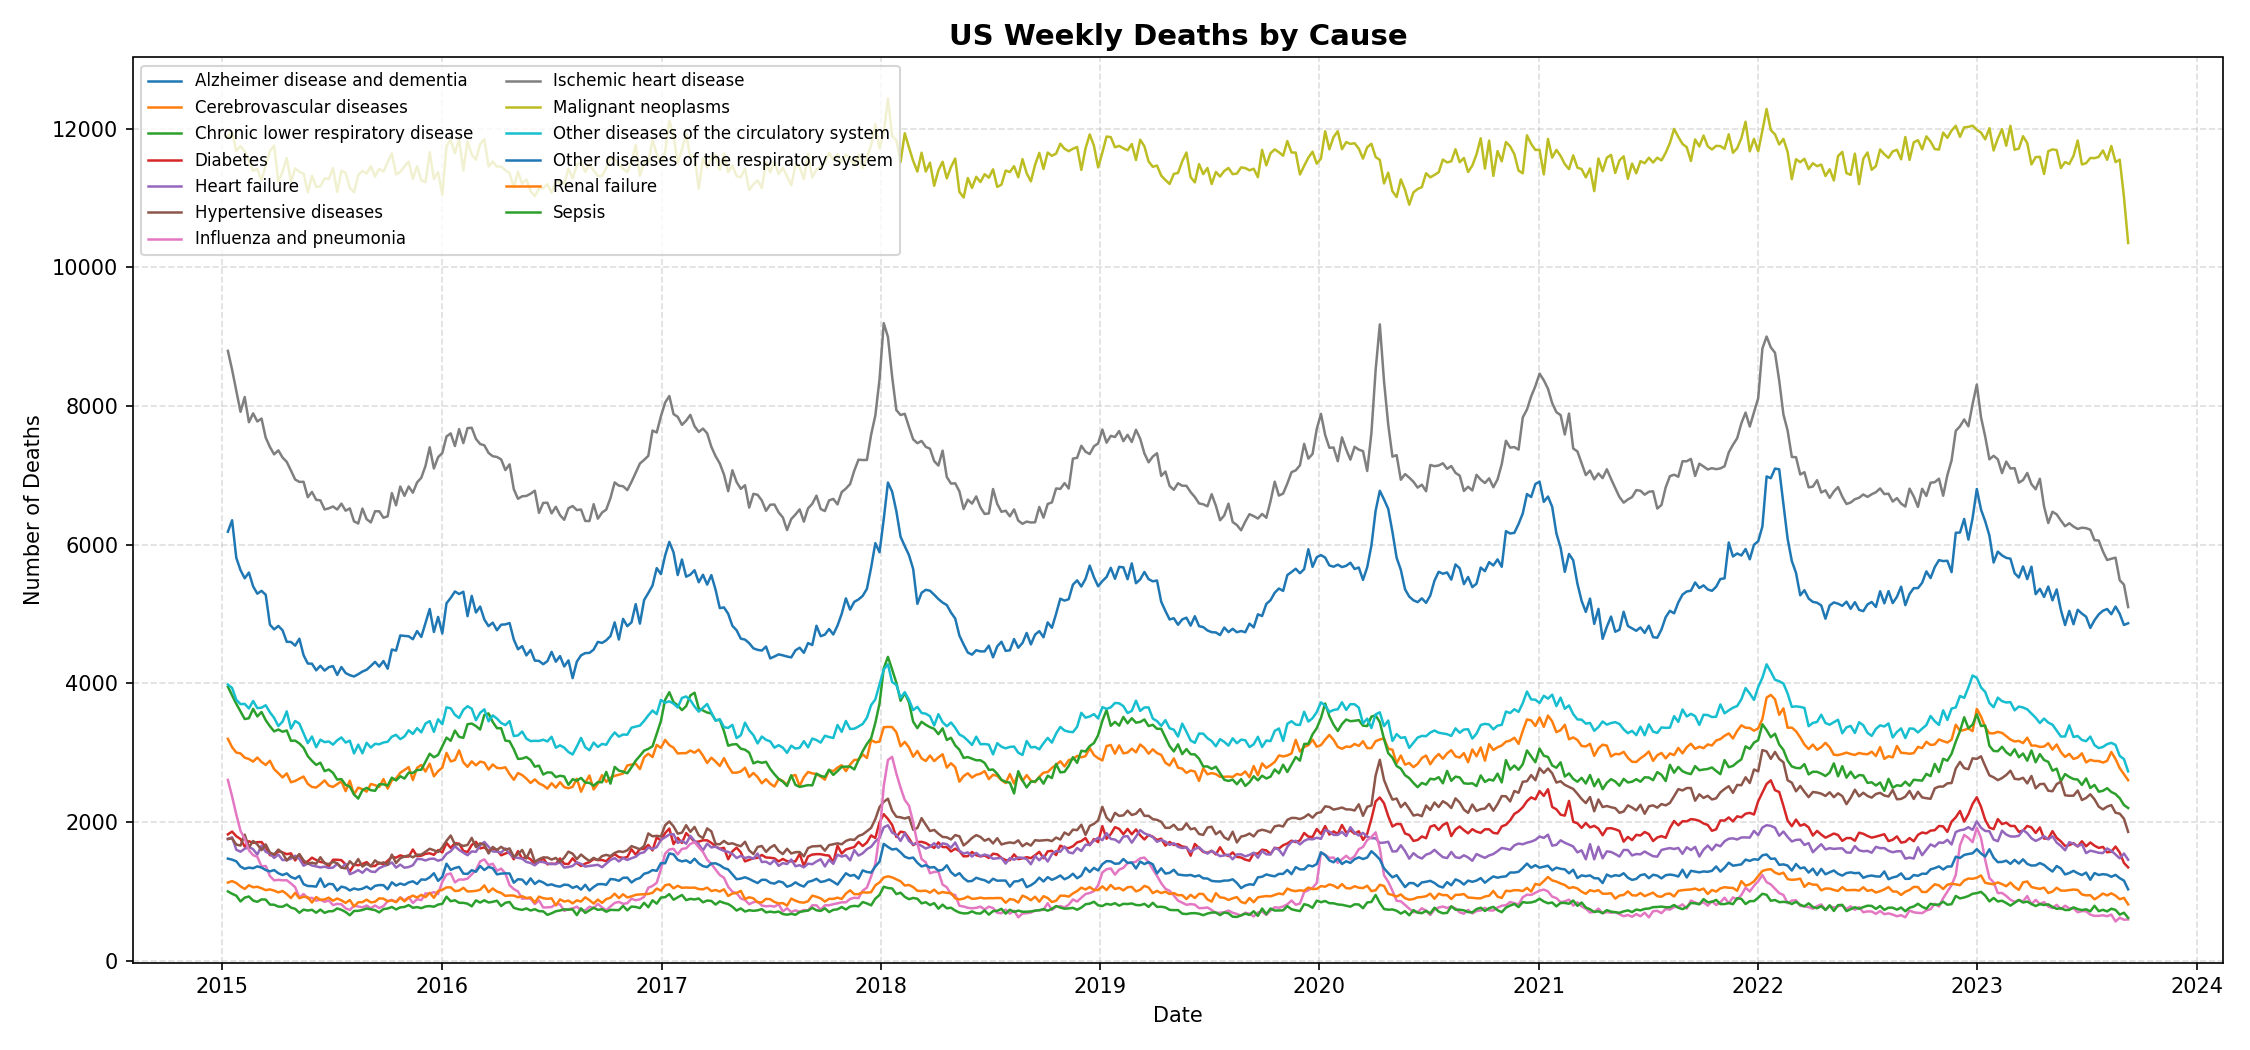
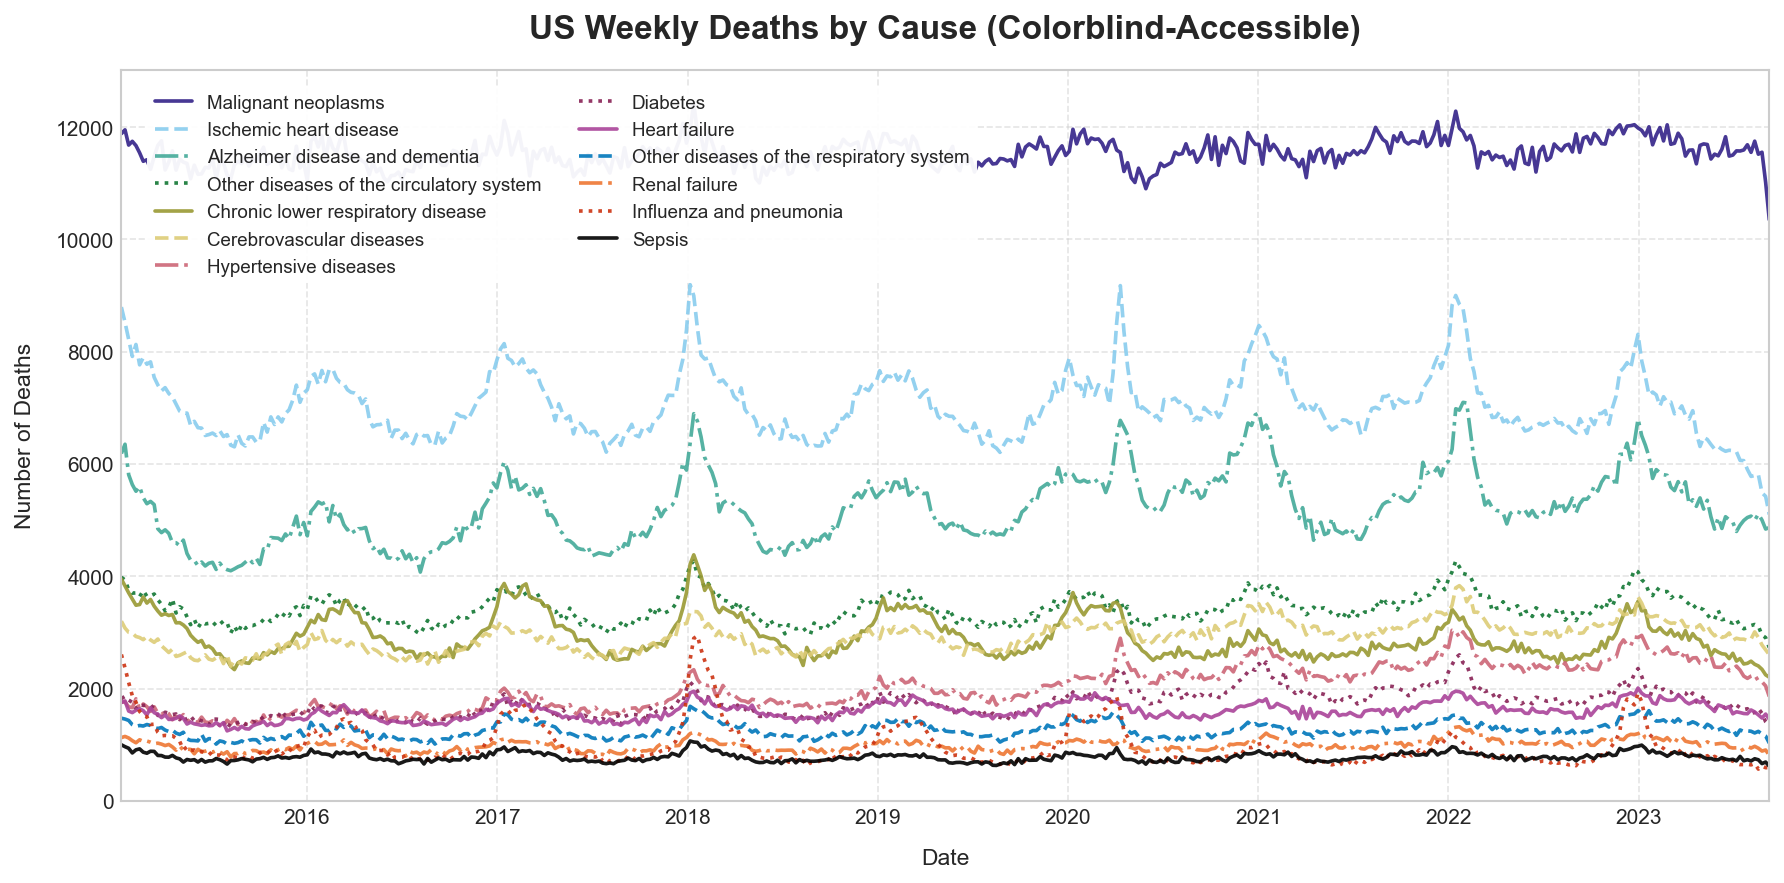
Updates to entry from Elliot

diff --git a/content/entries/deaths-per-week-us/weekly_deaths_by_cause_US/generate_plot_by_cause.py b/content/entries/deaths-per-week-us/weekly_deaths_by_cause_US/generate_plot_by_cause.py
@@ -1,0 +1,82 @@
+import pandas as pd
+import matplotlib.pyplot as plt
+import matplotlib.dates as mdates
+
+# 1. Load your dataset
+df = pd.read_csv("../weekly_deaths_united_states_only.csv")
+
+# Filter for US national data and the actual Unweighted counts
+df_filtered = df[(df['Jurisdiction'] == 'United States') & (df['Type'] == 'Unweighted')].copy()
+
+# Parse date strings into datetime objects
+df_filtered['Week Ending Date'] = pd.to_datetime(df_filtered['Week Ending Date'])
+
+# Pivot table to obtain a timeseries per Cause Subgroup
+df_pivot = df_filtered.pivot_table(
+    index='Week Ending Date', 
+    columns='Cause Subgroup', 
+    values='Number of Deaths',
+    aggfunc='sum'
+)
+
+# 2. Configure Paul Tol's colorblind-safe color cycle
+color_palette = [
+    "#332288", "#88CCEE", "#44AA99", "#117733", 
+    "#999933", "#DDCC77", "#CC6677", "#882255", 
+    "#AA4499", "#0077BB", "#EE7733", "#CC3311", "#000000"
+]
+
+# Alternate line styles to provide non-color cues
+line_styles = [
+    '-', '--', '-.', ':', 
+    '-', '--', '-.', ':', 
+    '-', '--', '-.', ':', '-'
+]
+
+# Set up clean canvas styling
+plt.style.use('seaborn-v0_8-whitegrid')
+fig, ax = plt.subplots(figsize=(12, 6), dpi=300)
+
+# Sort cause subgroups by historical mean to match the visual stack hierarchy
+sorted_columns = df_pivot.mean().sort_values(ascending=False).index
+
+# Plot each line with a dedicated color-style pair
+for i, col in enumerate(sorted_columns):
+    ax.plot(
+        df_pivot.index, 
+        df_pivot[col], 
+        label=col, 
+        color=color_palette[i % len(color_palette)], 
+        linestyle=line_styles[i % len(line_styles)],
+        linewidth=1.75,
+        alpha=0.9
+    )
+
+# 3. Labeling and Formatting
+ax.set_title("US Weekly Deaths by Cause (Colorblind-Accessible)", fontsize=16, fontweight='bold', pad=15)
+ax.set_xlabel("Date", fontsize=11, labelpad=10)
+ax.set_ylabel("Number of Deaths", fontsize=11, labelpad=10)
+
+ax.grid(True, linestyle='--', alpha=0.5)
+ax.set_xlim(df_pivot.index.min(), df_pivot.index.max())
+ax.set_ylim(bottom=0)
+
+# Clean Year Ticks on the X-axis
+ax.xaxis.set_major_locator(mdates.YearLocator())
+ax.xaxis.set_major_formatter(mdates.DateFormatter('%Y'))
+
+# Two-column accessible legend positioned in the upper left
+ax.legend(
+    loc='upper left', 
+    bbox_to_anchor=(0.01, 0.99), 
+    ncol=2, 
+    frameon=True, 
+    facecolor='white', 
+    framealpha=0.95, 
+    edgecolor='none', 
+    fontsize=9
+)
+
+plt.tight_layout()
+plt.savefig('weekly_deaths_by_cause_US.png', dpi=150, bbox_inches='tight')
+plt.close()  # Recommended to free up memory after saving

diff --git a/content/entries/deaths-per-week-us/index.md b/content/entries/deaths-per-week-us/index.md
@@ -11,8 +11,7 @@ tags: ["Cancer", "Heart disease"]
 
 The historical data of deaths per week of the year are sinusoidal for many causes of death. They vary by season with peaks in winter and troughs in summer. 
 <!--more-->
-For heart disease, the periodic variation apparently is a combination of stress, overeating/drinking, extra exertion (like shovelling snow) - all apparently equates to more heart attacks.
-
+For heart disease, the periodic variation is apparently a combination of stress, overeating/drinking, and extra exertion (like shoveling snow): all apparently lead to more heart attacks.
 
 These are heart-related weekly deaths in the US:
 {{< figure src="weekly_deaths_heart_US.png" width="700px" caption="Heart disease deaths per week in the US" >}}
@@ -27,7 +26,7 @@ Here are aggregate weekly deaths in the US, from all causes, which show a notice
 
 
 
-There is a periodic component and a mild growth trend which may be due to population growth. Thus, one could think about modelling these as purely periodic, or adding a linear or exponential term.
+There is a periodic component and a mild growth trend which may be due to population growth. Thus, modeling these could be purely periodic, or one could add a linear or exponential term.
 
 For example, a possible model for weekly heart-related deaths in the US is shown below
 
@@ -40,11 +39,11 @@ For a plot with other causes of death, see the [Scientific American Article](htt
 
 
 ## Cleaned up data
-The cause-specific data comes from *National Center for Health Statistics. Weekly Counts of Death by Jurisdiction and Select Causes of Death*, accessed on 26 Feb 2026, available from the CDC site https://data.cdc.gov/d/u6jv-9ijr. The aggregate all-cause weekly totals come from *National Center for Health Statistics. Excess Deaths Associated with COVID-19*, accessed on 16 Jun 2026, available from https://data.cdc.gov/d/xkkf-xrst.
+The cause-specific data comes from *National Center for Health Statistics. Weekly Counts of Death by Jurisdiction and Select Causes of Death*, accessed on February 26, 2026, available from the CDC site https://data.cdc.gov/d/u6jv-9ijr. The aggregate all-cause weekly totals come from *National Center for Health Statistics. Excess Deaths Associated with COVID-19*, accessed on June 16, 2026, available from https://data.cdc.gov/d/xkkf-xrst.
 
 *  [US data for weekly deaths (aggregate of all causes)](us_weekly_all_cause_deaths.csv). Filtered from the CDC "Excess Deaths Associated with COVID-19" dataset (see Sources). Weighted counts, which correct the most recent weeks for reporting delays and so drop the falling tail visible in the plots above. Raw counts are in the [unweighted version](us_weekly_all_cause_deaths_unweighted.csv).
 *  [US data for heart related or cancer deaths only](us_weekly_cancer_and_heart_data_only.csv). Built from the raw CDC data; weighted counts that correct the most recent weeks for reporting delays. It combines "Heart failure" and "Ischemic heart disease" into one group (Heart) and relabels "Malignant neoplasms" into "Cancer". The plots above use the [unweighted version](us_weekly_cancer_and_heart_data_only_unweighted.csv), so they won't match this file at the right edge.
-*  [US data only](weekly_deaths_united_states_only.csv). Filtered and organized from the raw CDC data. (The raw data gives weekly data for all states in large file, this is more manageable.)
+*  [US data only](weekly_deaths_united_states_only.csv). Filtered and organized from the raw CDC data.
 
 
 ## Sources